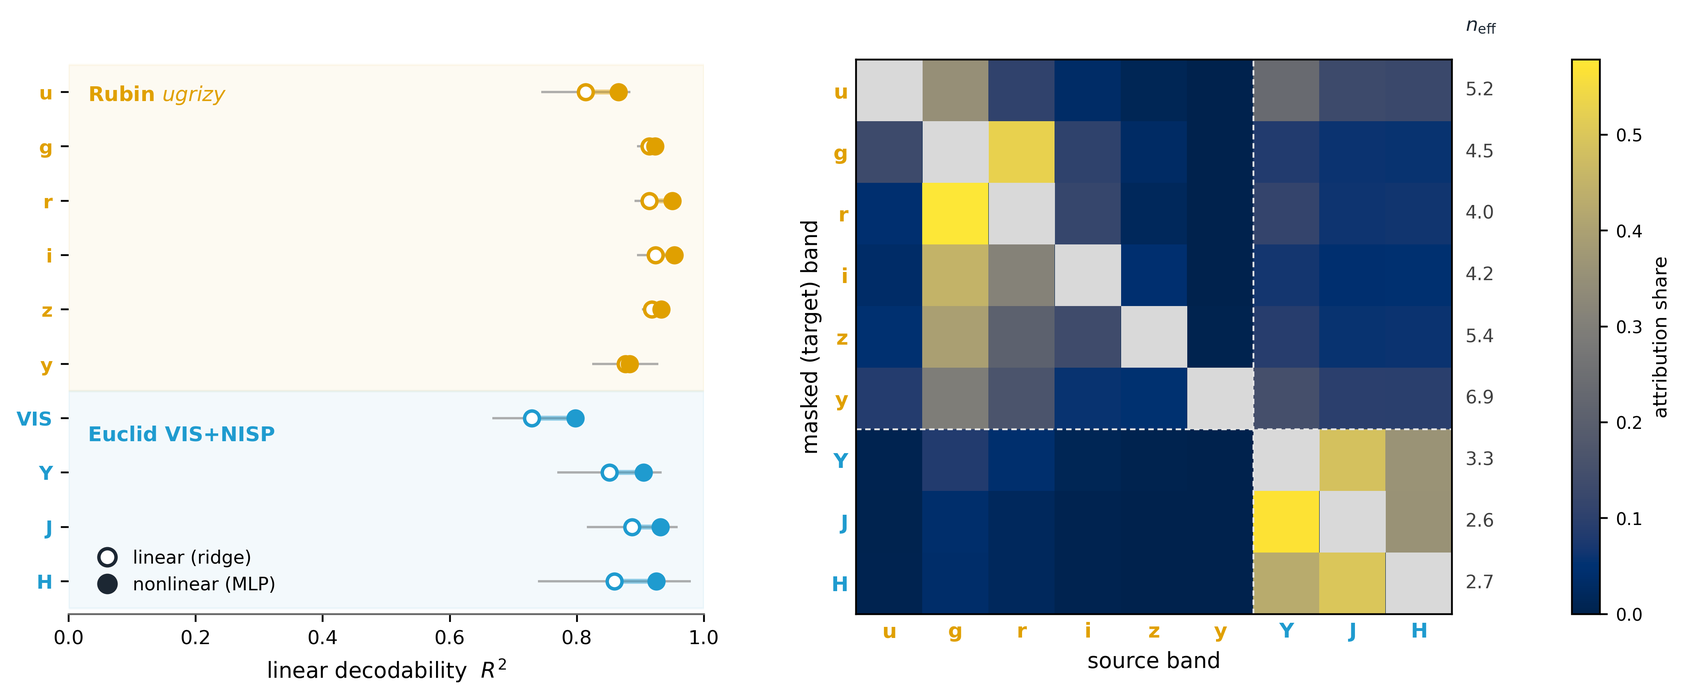
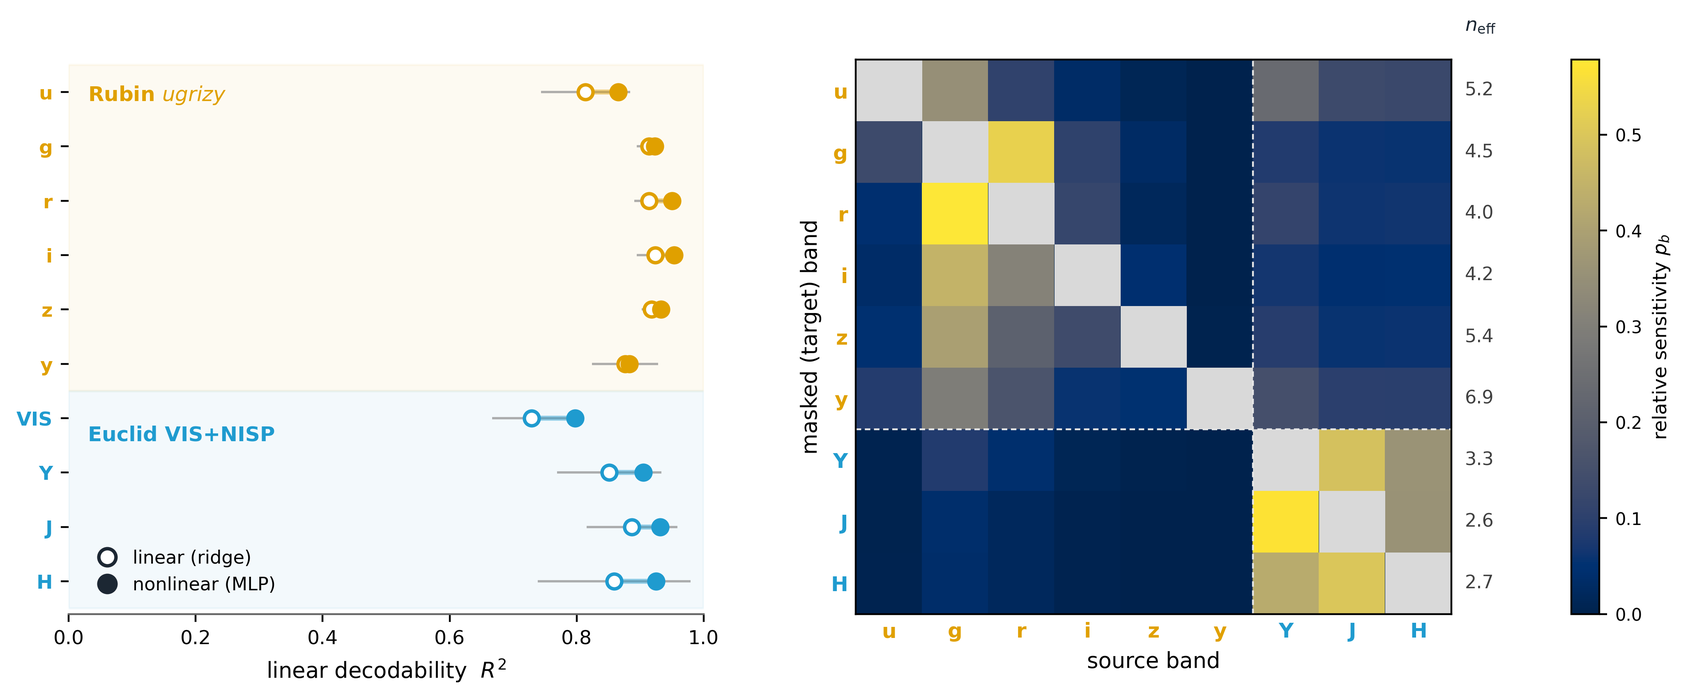
paper edit

diff --git a/paper/main.tex b/paper/main.tex
@@ -118,7 +118,7 @@ The core of \jaisp{} is a single foundation model that learns a shared represent
 
 The architecture must reconcile a mismatch between the instruments. Rubin imaging is sampled at $0.2\arcsecpx$ across six optical bands ($ugrizy$), whereas \textit{Euclid} VIS and the three NISP bands ($Y$, $J$, $H$) from MER are sampled twice as finely, at $0.1\arcsecpx$. Resampling both onto the coarser Rubin grid would reduce the sampling of the sharper VIS image. The model instead keeps each instrument at its delivered pixel sampling through separate encoder branches, and brings them together only once they reach a common physical scale.
 
-Each band first passes through its own convolutional ``stem,'' a small network that maps a single noisy band into a shared feature space while normalizing for that band's noise level. The per-band features then enter one of two parallel encoder branches, one for Rubin and one for \textit{Euclid}, built from ConvNeXt blocks \citep{liu2022,convnext}. ConvNeXt modernizes the classical convolutional network with design choices adapted from vision transformers \citep{ViT}, such as large depthwise kernels and inverted bottlenecks, matching transformer performance on vision benchmarks while remaining purely convolutional: it keeps the locality and translation equivariance natural to imaging data, and its cost scales linearly with image area rather than quadratically as self-attention does, which matters at the pixel counts of survey imaging. We therefore use convolutions wherever the sampling is fine and reserve explicit attention for the coarse fused grid below. Within each branch the feature maps are progressively reduced in spatial size and increased in depth, so that despite their different delivered sampling both branches arrive at a common $0.4\arcsecpx$ grid. The two streams are then summed with learned identity embeddings that let the network tell Rubin features from \textit{Euclid} ones, and passed to a transformer bottleneck \citep[][]{transformers}. Through self-attention, every location in the fused map can exchange information with every other, and it is here that cross-instrument and cross-band relationships are combined. Per-instrument decoders expand the bottleneck features back to the delivered sampling to reconstruct the withheld band, with the target band specified to the decoder so that a single model can reconstruct any of the bands. The complete model contains roughly nine million parameters; layer-by-layer specifications are given in Figure~\ref{fig:arch}. The $0.4\arcsecpx$ fused scale is a measured choice rather than a default: an otherwise identical foundation trained with the grid refined to $0.2\arcsecpx$ at matched transformer cost (halving the training crops to hold the token count fixed) is indistinguishable from the fiducial model in both held-out band reconstruction and the decodability diagnostics of Section~\ref{sec:validation}. Refining the fused grid alone buys nothing these measures can detect, so we retain the coarser, cheaper scale.
+Each band first passes through its own convolutional ``stem,'' a small network that maps a single noisy band into a shared feature space while normalizing for that band's noise level. The per-band features then enter one of two parallel encoder branches, one for Rubin and one for \textit{Euclid}, built from ConvNeXt blocks \citep{liu2022,convnext}. ConvNeXt modernizes the classical convolutional network with design choices adapted from vision transformers \citep{ViT}, such as large depthwise kernels and inverted bottlenecks, matching transformer performance on vision benchmarks while remaining purely convolutional: it keeps the locality and translation equivariance natural to imaging data, and its cost scales linearly with image area rather than quadratically as self-attention does, which matters at the pixel counts of survey imaging. We therefore use convolutions wherever the sampling is fine and reserve explicit attention for the coarse fused grid below. Within each branch the feature maps are progressively reduced in spatial size and increased in depth, so that despite their different delivered sampling both branches arrive at a common $0.4\arcsecpx$ grid. The two streams are then summed with learned identity embeddings that let the network tell Rubin features from \textit{Euclid} ones, and passed to a transformer bottleneck \citep[][]{transformers}. Through self-attention, every location in the fused map can exchange information with every other, and it is here that cross-instrument and cross-band relationships are combined. Per-instrument decoders expand the bottleneck features back to the delivered sampling to reconstruct the withheld band, with the target band specified to the decoder so that a single model can reconstruct any of the bands. The complete model contains roughly nine million parameters; layer-by-layer specifications are given in Figure~\ref{fig:arch}. We adopt a $0.4\arcsecpx$ fused grid to balance spatial sampling, sky coverage, and computational cost. We tested a finer $0.2\arcsecpx$ grid, halving the Rubin training-crop width from 256 to 128 pixels to keep the transformer token count fixed and training computationally tractable. At evaluation, both models were applied to identical sky crops at both sizes, allowing the finer grid four times as many tokens. Reconstruction was nearly unchanged at both crop sizes, and feature-decoding performance was comparable on the 256-pixel crops. These results support retaining the coarser grid for this work, although they do not test training the finer grid with the larger sky context.
 
 Within each branch the per-band feature maps must be combined before the streams are fused. A natural default is to pool them into a single map, but doing so attenuates each band's contribution to the learning signal: averaging six Rubin bands, for example, divides the gradient passed to each input feature map by six. This motivates a combination with separate learned weights for each band, although the gradient factor alone does not establish a loss of spatial precision. The model instead concatenates the per-band features and projects them, allowing separate weights for each band's features. This keeps wavelength-dependent information, such as how a galaxy's morphology and effective PSF change from band to band, available to the representation, where the photometry and deblending heads later draw on it. When a band is withheld as the reconstruction target its input slot is zero-filled, and the projection learns to ignore the empty slot, which also lets the model operate when some bands are absent.
 
@@ -168,14 +168,25 @@ The reconstruction here carries more than that first-order transfer: it operates
 \begin{figure*}
     \centering
     \includegraphics[width=\textwidth]{figures/fig4_probe.png}
-\caption{Two views of the frozen foundation representation. \emph{Left (decodability):} a probe predicts each band's per-source local $\log$\,S/N proxy from the frozen bottleneck features at detected source positions (6-fold tile-group hold-out, ${\sim}770$ sources; protocol in text). Open markers are a linear (ridge) probe, filled markers a nonlinear (MLP) probe, the connecting line is the nonlinear gain, and the gray bar is the fold scatter. All ten bands are linearly decodable ($R^2 = 0.7$--$0.95$); The lower VIS score may partly reflect that sources are selected on VIS S/N, truncating its range. \emph{Right (information routing):} input-gradient attribution, masking a target band (row) and backpropagating the reconstruction loss to each source band's pixels (row-normalized; the diagonal is self-attribution, shown gray). VIS is omitted because, when present, it absorbs ${\sim}100\%$ of the attribution; shown is the routing among the remaining nine bands. $n_{\rm eff} = 2^{H}$, with $H$ the base-2 Shannon entropy of each row, is the effective number of source bands: Rubin bands draw on many sources ($n_{\rm eff}\approx4$--$7$, spectral neighbors with a $g/r$ hub, plus NISP), whereas the NISP bands form a near-closed block ($n_{\rm eff}\approx3$, $Y\!/\!J\!/\!H$ mutually, with only ${\sim}10\%$ of their attribution reaching Rubin).}
+\caption{Two views of the frozen foundation representation. \emph{Left:} prediction of each band's local $\log$\,S/N proxy from frozen features, evaluated with six folds grouped by tile (${\sim}770$ sources). Open and filled markers show linear (ridge) and nonlinear (MLP) probes; connecting lines show their difference, and gray bars show the standard deviation of the ridge scores across folds. \emph{Right:} relative sensitivity of the reconstruction loss to each input band (columns), for each withheld target band (rows). Colors show the normalized input-gradient weights $p_b$ defined in Equation~\ref{eq:attribution_sensitivity}; each row sums to one. VIS is excluded from the inputs to reveal relationships among the other bands, and gray diagonal cells mark the withheld targets. The effective number of contributing bands, $n_{\rm eff}=2^H$, uses the base-2 Shannon entropy of each row. Rubin reconstructions draw sensitivity from several bands, while NISP reconstructions depend mainly on the other NISP bands.}
     \label{fig:foundation_probe}
 \end{figure*}
 
 
-\textit{Decodability.} Faithful reconstruction is a statement about the network as a whole: the held-out band is produced by the encoder's features and the trained decoder acting together, so its success shows only that the information exists somewhere along that path, possibly folded into the decoder's weights. A downstream head inherits none of the decoder; it consumes the frozen bottleneck features alone. The question that matters for everything that follows is therefore whether those features, by themselves, hold the per-band information in a form a simple head can read out. We test this with a linear probe (left panel of Figure~\ref{fig:foundation_probe}): a ridge regression trained to predict each band's per-source local $\log$\,S/N proxy from the frozen features at the source position. Nothing learned enters the setup beyond the frozen encoder itself: the sources are simply $\mathrm{S/N}>5$ peaks in the smoothed VIS image, and the quantity to be recovered is $\log_{10}(\langle I\rangle/\langle\sigma\rangle)$ measured in a $5\times5$-pixel window at the source location in each delivered band. This is a local signal proxy rather than integrated-flux S/N with propagated aperture variance. The probe is evaluated with six folds grouping sources by tile, with features standardized per fold and the regression restricted per band to sources carrying signal in that band. These folds exclude test tile groups from probe fitting, but do not exclude their sky from encoder pretraining or guarantee independence of overlapping tiles. All ten bands are recovered with high accuracy ($R^2 \approx 0.7$--$0.95$), and an exploratory nonlinear probe adds little, showing the per-band photometric information is not only present but \emph{linearly} available in the representation. We note that source brightness is an easy quantity to decode, so this is a check on representational richness rather than a strong claim about deep cross-instrument content; the more discriminating question is addressed next. The nonlinear comparison reports the best test-fold score over training epochs; it is therefore a diagnostic comparison rather than an independently selected test result.
+\textit{Decodability.} Faithful reconstruction is a statement about the network as a whole: the held-out band is produced by the encoder's features and the trained decoder acting together, so its success shows only that the information exists somewhere along that path, possibly folded into the decoder's weights. A downstream head inherits none of the decoder; it consumes the frozen bottleneck features alone. The question that matters for everything that follows is therefore whether those features, by themselves, hold the per-band information in a form a simple head can read out. We test this with a linear probe (left panel of Figure~\ref{fig:foundation_probe}): a ridge regression trained to predict each band's per-source local $\log$\,S/N proxy from the frozen features at the source position. Nothing learned enters the setup beyond the frozen encoder itself: the sources are simply $\mathrm{S/N}>5$ peaks in the smoothed VIS image, and the quantity to be recovered is $\log_{10}(\langle I\rangle/\langle\sigma\rangle)$ measured in a $5\times5$-pixel window at the source location in each delivered band. This is a local signal proxy rather than integrated-flux S/N with propagated aperture variance. The probe is evaluated with six folds grouping sources by tile, with features standardized per fold and the regression restricted per band to sources carrying signal in that band. These folds exclude test tile groups from probe fitting, but do not exclude their sky from encoder pretraining or guarantee independence of overlapping tiles. We quantify predictive performance with the coefficient of determination, $R^2=1-\sum_i(y_i-\hat y_i)^2/\sum_i(y_i-\bar y)^2$, where $y_i$ and $\hat y_i$ are the measured and predicted local $\log$\,S/N proxies, and $\bar y$ is the mean measured value in the test fold. A score of one indicates perfect prediction; zero corresponds to predicting the test-fold mean. All ten bands are recovered with high accuracy ($R^2 \approx 0.7$--$0.95$), and an exploratory nonlinear probe adds little, showing the per-band photometric information is not only present but \emph{linearly} available in the representation. We note that source brightness is an easy quantity to decode, so this is a check on representational richness rather than a strong claim about deep cross-instrument content; the more discriminating question is addressed next. The nonlinear comparison reports the best test-fold score over training epochs; it is therefore a diagnostic comparison rather than an independently selected test result.
 
-\textit{Information routing.} The right panel of Figure~\ref{fig:foundation_probe} asks which bands the model actually draws on when reconstructing a given band. We measure this by input-gradient attribution, a standard interpretability technique whose idea is simple: the derivative of the reconstruction loss with respect to an input pixel measures the local sensitivity of that loss to a perturbation of the pixel. For each withheld target band we divide each source band's mean absolute input gradient by its mean absolute input value, then normalize across bands. These quantities describe relative local sensitivities under the chosen input scaling and loss, rather than fractions of reconstructed flux or causal contributions. The dominant result is that, when \textit{Euclid} VIS is available, it absorbs essentially all of the attribution: as the sharpest and deepest channel, it serves as a universal spatial scaffold on which every other band is reconstructed. Because this single-band dominance would otherwise mask all finer structure, the panel shown is a counterfactual with VIS removed, exposing how the remaining nine bands route information among themselves. To summarize each target band's reliance on others compactly, we report the effective number of contributing source bands, $n_{\rm eff} = 2^{H}$. Here $H=-\sum_b p_b\log_2 p_b$ is the base-2 Shannon entropy of the normalized attribution weights $p_b$, with zero-weight terms taken as zero. The effective number $n_{\rm eff}=2^H$ equals one when all sensitivity is concentrated in a single band and equals $k$ when it is distributed equally across $k$ bands. Unequal weights give an intermediate effective count. The Rubin optical bands have $n_{\rm eff} \approx 4$--$7$, drawing on many spectral neighbors with the adjacent bands contributing most, whereas the three NISP near-infrared bands form a near-closed block ($n_{\rm eff} \approx 3$) that relies chiefly on one another and barely on Rubin. This mirrors the structure of real galaxy spectral energy distributions, where neighboring bands are most predictive of one another, and is consistent with physically meaningful relationships between bands, although gradient sensitivity alone does not establish their origin.
+\textit{Information routing.} The right panel of Figure~\ref{fig:foundation_probe} asks which bands the model actually draws on when reconstructing a given band. We measure this by input-gradient attribution, a standard interpretability technique whose idea is simple: the derivative of the reconstruction loss with respect to an input pixel measures the local sensitivity of that loss to a perturbation of the pixel. For each withheld target band, we quantify sensitivity to an input band $b$ using the mean absolute gradient of the reconstruction loss with respect to that band's pixels, divided by its mean absolute pixel value. We average this score over the evaluated tiles and normalize across the available input bands:
+\begin{equation}
+\begin{aligned}
+S_b &= \left\langle
+\frac{\left\langle\left|\partial\mathcal{L}/\partial I_b\right|\right\rangle_{\rm pixels}}
+{\left\langle|I_b|\right\rangle_{\rm pixels}+\epsilon}
+\right\rangle_{\rm tiles}, \\
+p_b &= \frac{S_b}{\sum_{b'\in\mathcal B}S_{b'}}.
+\end{aligned}
+\label{eq:attribution_sensitivity}
+\end{equation}
+Here $I_b$ is the input image in band $b$, $\mathcal L$ is the reconstruction loss for the withheld target, $\mathcal B$ contains the available input bands, and $\epsilon=10^{-8}$ prevents division by zero. The weights $p_b$ sum to unity and describe relative local sensitivity under the adopted input scaling and loss; they do not measure fractions of reconstructed flux or causal contributions. The dominant result is that, when \textit{Euclid} VIS is available, it absorbs essentially all of the attribution: as the sharpest and deepest channel, it serves as a universal spatial scaffold on which every other band is reconstructed. Because this single-band dominance would otherwise mask all finer structure, the panel shown is a counterfactual with VIS removed, exposing how the remaining nine bands route information among themselves. We summarize the distribution of these weights by the effective number of contributing bands, $n_{\rm eff}=2^H$, where $H=-\sum_{b\in\mathcal B}p_b\log_2p_b$ is the base-2 Shannon entropy, with zero-weight terms taken as zero. The effective number $n_{\rm eff}=2^H$ equals one when all sensitivity is concentrated in a single band and equals $k$ when it is distributed equally across $k$ bands. Unequal weights give an intermediate effective count. The Rubin optical bands have $n_{\rm eff} \approx 4$--$7$, drawing on many spectral neighbors with the adjacent bands contributing most, whereas the three NISP near-infrared bands form a near-closed block ($n_{\rm eff} \approx 3$) that relies chiefly on one another and barely on Rubin. This mirrors the structure of real galaxy spectral energy distributions, where neighboring bands are most predictive of one another, and is consistent with physically meaningful relationships between bands, although gradient sensitivity alone does not establish their origin.
 Together these checks establish that the frozen representation is faithful, that its per-band information is linearly accessible, and that it routes information between bands in a physically coherent way. It is therefore a sound basis for the task-specific heads developed in the following sections.
 
 
@@ -187,17 +198,17 @@ Together these checks establish that the frozen representation is faithful, that
 \setlength{\tabcolsep}{5pt}
 \begin{tabular}{llll}
 \toprule
-Evaluation & Sample & Encoder exposure & Task-specific training \\
+Evaluation & Sample & Encoder exposure & Task-model training \\
 \midrule
-Reconstruction & 39 ECDFS validation tiles & Neighboring sky may overlap & Decoder trained with encoder \\
-Feature probes & ${\sim}770$ sources; 6 tile-group folds & ECDFS pretraining & Probe fit on other folds \\
-Detection & 108 ECDFS patch-25 tiles & ECDFS pretraining & Patch 25 excluded \\
-Astrometry maps & Full ECDFS footprint (790 tiles) & ECDFS pretraining & Includes head-training sky \\
-Astrometry injection control & 108 patch-25 tiles & ECDFS pretraining & Production and patch-held-out heads \\
-Field transfer & 72 EDF-S tiles & None & No retraining \\
+Reconstruction (Figure~\ref{fig:foundation_reconstruction}) & 39 ECDFS validation tiles & Neighboring sky may overlap & Decoder trained with encoder \\
+Brightness prediction (Figure~\ref{fig:foundation_probe}) & ${\sim}770$ sources; 6 tile-group folds & ECDFS pretraining & Predictor trained on other folds \\
+Detection (Figure~\ref{fig:detection_performance}) & 108 patch-25 tiles; & ECDFS pretraining & Patch 25 excluded \\
+ & 45 for point-source completeness & & \\
+Astrometry injections (Figure~\ref{fig:injection_truth}) & 108 patch-25 tiles & ECDFS pretraining & Patch 25 excluded \\
+Astrometry maps (Figures~\ref{fig:astrom_agreement}, \ref{fig:head_correction}, \ref{fig:concordance_field}) & Full ECDFS footprint (790 tiles) & ECDFS pretraining & Includes evaluated sky \\
+Field transfer (Figure~\ref{fig:ood}) & 72 EDF-S tiles & None & ECDFS only \\
 \bottomrule
 \end{tabular}
-\tablecomments{Tile counts describe image cutouts, which overlap within each field. Encoder generalization to independent sky is tested on EDF-S. Point-source detection completeness uses 45 donor-qualified tiles, while injection-based purity uses all 108 patch-25 tiles; the astrometric injections test measurement error relative to positions assigned through the delivered WCS.}
 \end{table*}
 
 \section{Detection}\label{sec:detection}
@@ -210,8 +221,9 @@ Field transfer & 72 EDF-S tiles & None & No retraining \\
 
 
 \begin{table}[t]
+\vspace{10pt}
 \centering
-\caption{$50\%$ point-source injection depth $d_{50}$ (VIS-band magnitude) for the two detection heads, measured with unresolved donors.}
+\caption{Point-source detection depths.}
 \label{tab:detection_heads}
 \begin{tabular}{lcc}
 \toprule
@@ -240,7 +252,7 @@ The two variants differ in where they read that evidence. The fused-bottleneck v
 
 We also tried a Detection Transformer \citep[DETR;][]{DETR}, which represents objects with a fixed set of learned ``query'' slots assigned to sources through a matching step. Its set-prediction machinery is built for the complexity of natural scenes and is data-hungry, and on our limited training set it converged slowly and unstably. A per-pixel design fits the problem better: every pixel receives a direct training signal, and detection reduces to finding peaks in a learned source-evidence image, much as sources are found classically. Blending, the main concern for such peak-based approaches, is also less severe here, since the fused representation brings the sharp \textit{Euclid} VIS scaffold to bear alongside the ground-based bands: the deconfusion of seeing-limited imaging by space-based resolution that joint processing was conceived to deliver \citep{Chary2020}, supplied here by the representation itself rather than by explicit positional priors, joint scene models \citep[e.g., \textsc{Scarlet};][]{Melchior2018}, or a dedicated deblending network \citep{Hemmati2022}.
 
-A natural source of labels would be the \textit{Euclid} Q1 MER catalog, but we deliberately did not train on it. That catalog is the product of substantial detection machinery: \textsc{SourceExtractor++} run in a simulation-calibrated dual-threshold configuration, separately on the VIS mosaic and on a stack of the three NISP bands, followed by a dedicated density-based deblending stage and by spurious-source and bright-star cleaning \citep{MER}. Matching that reference with far less is part of what this section sets out to show: detection from the frozen features should not require heavy curated supervision, so we keep the labels lightweight and internal, generating them directly from the VIS imaging with standard source extraction \citep[\textsc{SEP};][]{SEP} at $3\sigma$, followed by light cleaning: detections sitting on diffraction-spike ridges are removed, each saturated star is consolidated to a single centroid, and near-duplicates are merged. We compared this against a multi-scale peak-finder; \textsc{SEP} produced the cleaner reference, showing markedly higher agreement with the MER catalog at matched purity, so we adopt it as the primary recipe. The head is trained on these labels.
+We train the production head on labels generated directly from the VIS imaging using \textsc{SEP} \citep{Bertin1996,SEP} at $3\sigma$, followed by light cleaning: detections on diffraction-spike ridges are removed, each saturated star is consolidated to a single centroid, and near-duplicates are merged. We compared this extraction with a multi-scale peak-finder; \textsc{SEP} produced the cleaner reference, with higher agreement with MER at matched purity.
 
 \begin{figure*}[t]
 \centering
@@ -249,7 +261,9 @@ A natural source of labels would be the \textit{Euclid} Q1 MER catalog, but we d
 \label{fig:detection_performance}
 \end{figure*}
 
-We use the MER catalog instead as an external cross-check, in the form of a clean reference: its objects detected in VIS and not flagged as spurious. Detection in the MER pipeline is VIS-primary, a choice made there because weak lensing requires a sample with a simple selection function, and its supplementary NISP-stack list contributes objects with no VIS counterpart; these lack the VIS magnitudes and S/N that anchor the binned comparisons below, so the clean reference excludes them. Training the head on MER labels rather than our internal ones gives essentially the same detector, its injection depth within ${\sim}0.25$\,mag, with only a marginal change in catalog-match agreement (itself circular, since a MER-trained model is scored against MER). This is consistent with the role the reference plays here: a VIS-anchored detection catalog rather than a complete truth catalog, it neither adds information beyond our VIS-based labels nor rewards the deeper, multi-band sources the head recovers that are faint in VIS but supported by the other bands.
+We use the \textit{Euclid} Q1 MER catalog as an external cross-check. In Q1, \textsc{SourceExtractor++} detects sources independently in the VIS mosaic and a weighted stack of the three NISP bands, using two detection thresholds calibrated on simulations, followed by a dedicated density-based deblending stage. The lists are merged by retaining VIS detections and adding NIR detections outside the VIS segmentation regions \citep{MER}. For our catalog-completeness measurements, we select sources detected in VIS and not flagged as spurious. This defines our clean VIS-selected reference sample; catalog-based purity instead uses counterparts in the full MER catalog.
+
+As a control, training the head on MER labels gives a similar detector, with an injection depth within approximately $0.25$\,mag of the production head and only a marginal change in catalog agreement. Agreement with MER is not an independent validation for this control, since MER supplies its training labels.
 
 Figure~\ref{fig:detection_overlay} overlays the four source lists on a single held-out \textit{Euclid} VIS tile. The overall agreement is close: on the great majority of sources the four lists coincide. Two differences are visible on close inspection. First, the classical \textsc{SEP} list, even after the cleaning described above, tends to over-fragment extended galaxies, placing several detections across the spiral arms or star-forming clumps of a single resolved system, whereas the learned heads, though trained on those same labels, more often return one detection per object. Second, among the learned heads the fused CenterNet variant is the strongest: it recovers more faint sources than either the classical list or the native-stem variant, including objects that are faint in VIS but supported by the other bands. Whether the detector's added faint sources are real rather than noise is what the injection test below quantifies, by showing that real faint multi-band sources are in fact recoverable; the overlay shows the qualitative pattern, and the quantitative comparison follows.
 
@@ -257,7 +271,7 @@ We evaluate detection performance in three complementary ways. First, we inject 
 
 \subsection{Injection recovery and detection depth}
 
-Injection completeness is the fraction of added sources recovered at each magnitude: $C_{\rm inj}=N_{\rm recovered}/N_{\rm injected}$. We count a source as recovered when a new detection appears within $0.3''$ of its injected position. The $50\%$ detection depth is the magnitude at which half of the injected sources are recovered. This measures sensitivity beyond the reference catalog's faint-end limit, where catalog matching alone cannot establish completeness.
+Injection completeness is the fraction of added sources recovered at each magnitude: $C_{\rm inj}=N_{\rm recovered}/N_{\rm injected}$. We count a source as recovered when a new detection appears within $0.3''$ of its injected position. The $50\%$ detection depth, $d_{50}$, is the VIS-band magnitude at which half of the injected sources are recovered. This measures sensitivity beyond the reference catalog's faint-end limit, where catalog matching alone cannot establish completeness.
 
 We construct the injections by source recycling: selecting real sources whose image cutouts are dimmed and inserted elsewhere in the images. We refer to these sources as donors. For the point-source test, donors are isolated, unresolved sources with $19.5<\mathrm{VIS}<22.5$, where VIS denotes magnitude measured in the \textit{Euclid} VIS band. Their magnitudes come from MER photometry in a regime where it is secure. Donors must have no cataloged neighbor within $3''$ and satisfy a VIS concentration cut, $F(<0.3'')/F(<1.5'')\geq0.65$, in addition to the compactness selection. This selects star-like profiles, which matters because the bright catalog contains many compact galaxies whose finite size would affect a point-source depth measurement. The procedure requires at least two qualifying donors within a tile. Of the 108 held-out patch-25 tiles, 45 meet this requirement, providing ten injections per magnitude per tile, or 450 injections per magnitude and band-selection mode.
 
